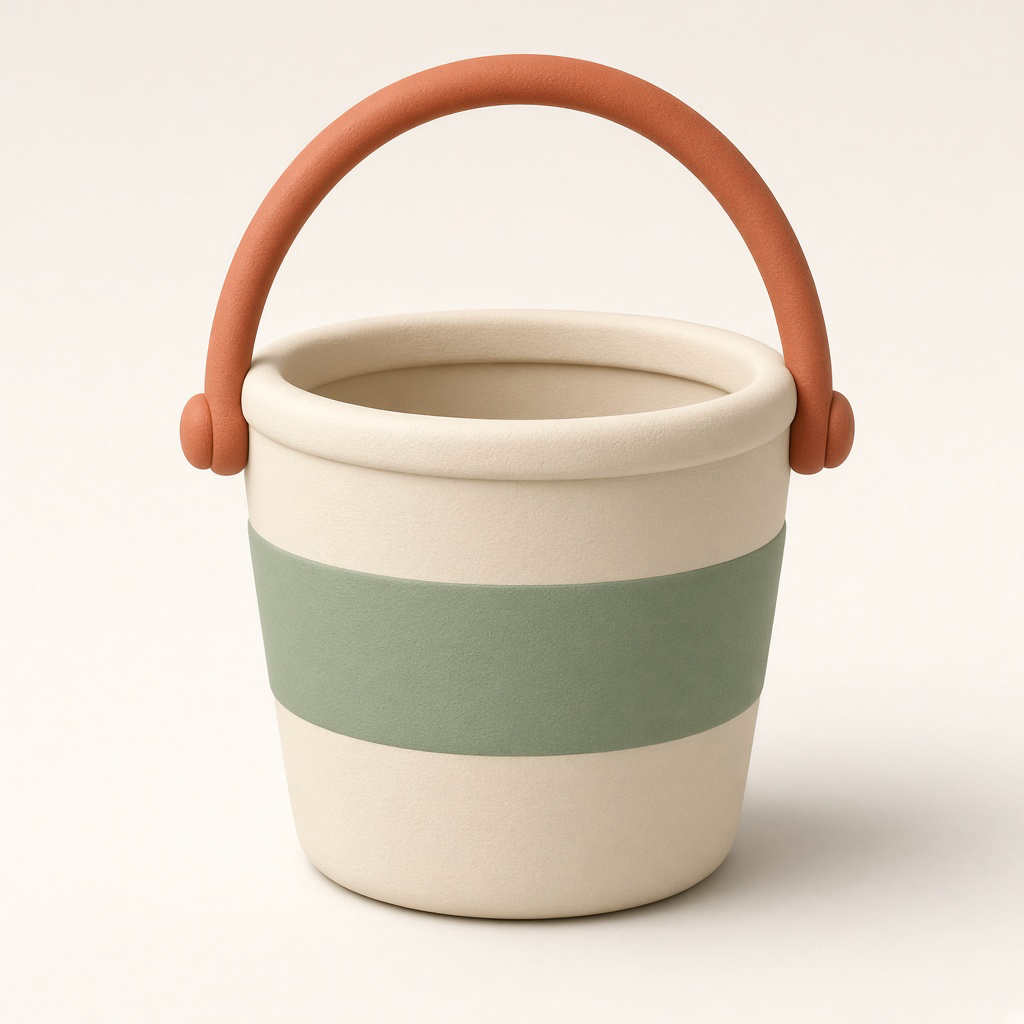
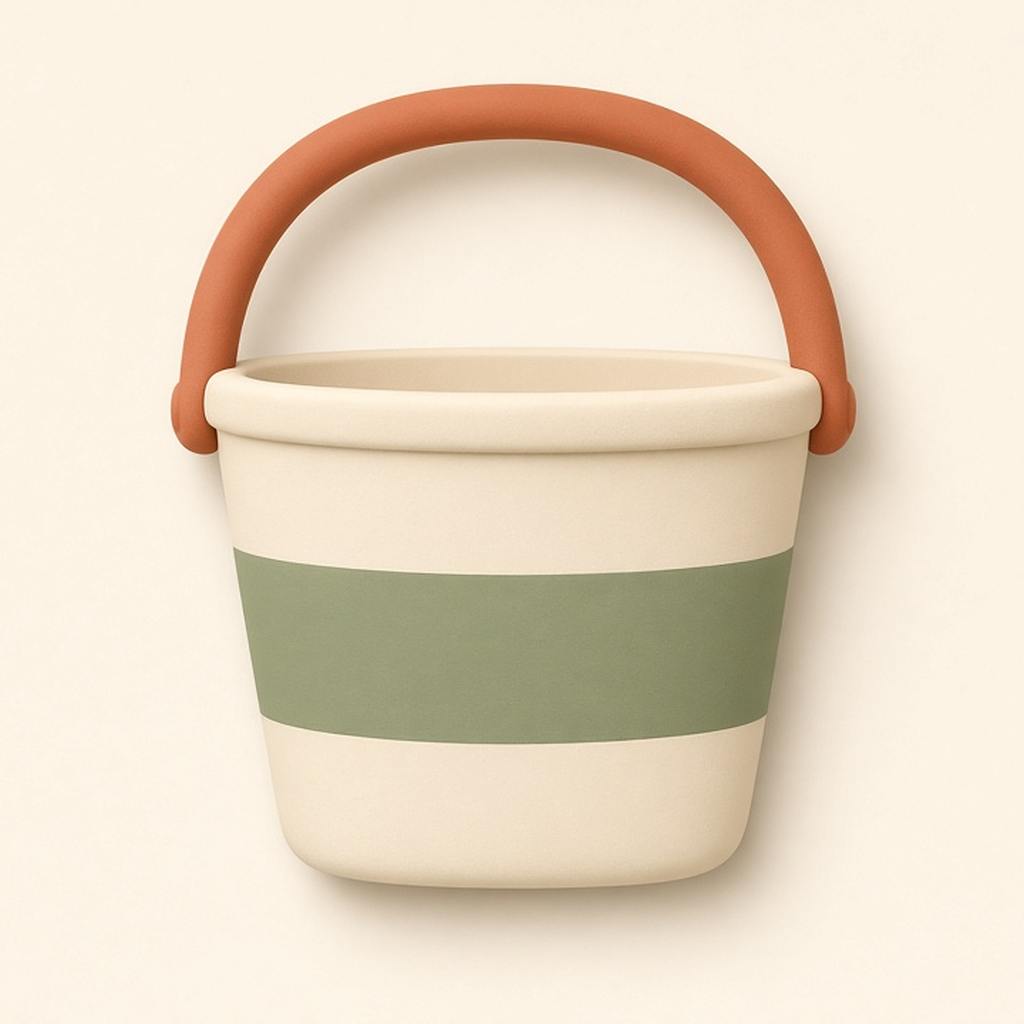
fix(cubetas): swap stand-in buckets for Brand CLEAR PNGs
Overwrite public/cubetas props with the Drive Brand CLEAR bytes
(4d67d624… / 08286daf…) and lock those hashes in content.test.js.

diff --git a/src/content.test.js b/src/content.test.js
@@ -1112,8 +1112,8 @@ assert(existsSync(mascotPng), "Cenzontle mark lives at public/mascot/cenzontle.p
 assert(!existsSync(join(repoRoot, "public", "mascot", "axolotl.png")), "axolotl.png is gone from public/mascot");
 assert(readFileSync(mascotPng).subarray(0, 8).equals(pngMagic), "mascot/cenzontle.png is a real PNG, not JPEG-named-.png");
 const cubetasProps = [
-  ["subjunctive", CUBETAS_BUCKET_SRC.subjunctive, 805147, "785352faf3a3ca584ea719d823bff6ef"],
-  ["indicative", CUBETAS_BUCKET_SRC.indicative, 794563, "02fe7d6048bab51e8f0cd9a674cd60d4"],
+  ["subjunctive", CUBETAS_BUCKET_SRC.subjunctive, 576231, "4d67d62487e6869b448115513c8108de"],
+  ["indicative", CUBETAS_BUCKET_SRC.indicative, 607358, "08286dafc4518ca36d56e5ef2d386c12"],
 ];
 for (const [mood, rel, bytes, md5] of cubetasProps) {
   const propPng = join(repoRoot, "public", rel);

diff --git a/HANDOFF.md b/HANDOFF.md
@@ -5,7 +5,7 @@ Running log between audits and execution. Newest entry first. Keep each entry sh
 ## 2026-09-09 (Cubetas v2 — clay props + 780ms grab arc)
 
 **What changed**
-- Mood buckets are clay prop PNGs at `public/cubetas/bucket-{subjunctive,indicative}.png`. Live UI labels sit under the handles. No white cards. No baked type.
+- Mood buckets are Brand CLEAR clay prop PNGs at `public/cubetas/bucket-{subjunctive,indicative}.png` (576231 / `4d67d62487e6869b448115513c8108de` · 607358 / `08286dafc4518ca36d56e5ef2d386c12`). Live UI labels sit under the handles. No white cards. No baked type.
 - Win motion lock is 780ms: enter 0–160 · handle lock + squash 160–300 (1.0→0.92→1.04) · lift + 12° 300–420 · up-left arc exit 420–780. Enter / lift / exit easings locked. One right-facing Cenzontle, 64px on the handle, wins only.
 - Winning bucket glow is cream / terracotta. Soft chrome parked. Teaching unchanged: Literal then Why; wrong shakes and returns the chip, no bird.
 
